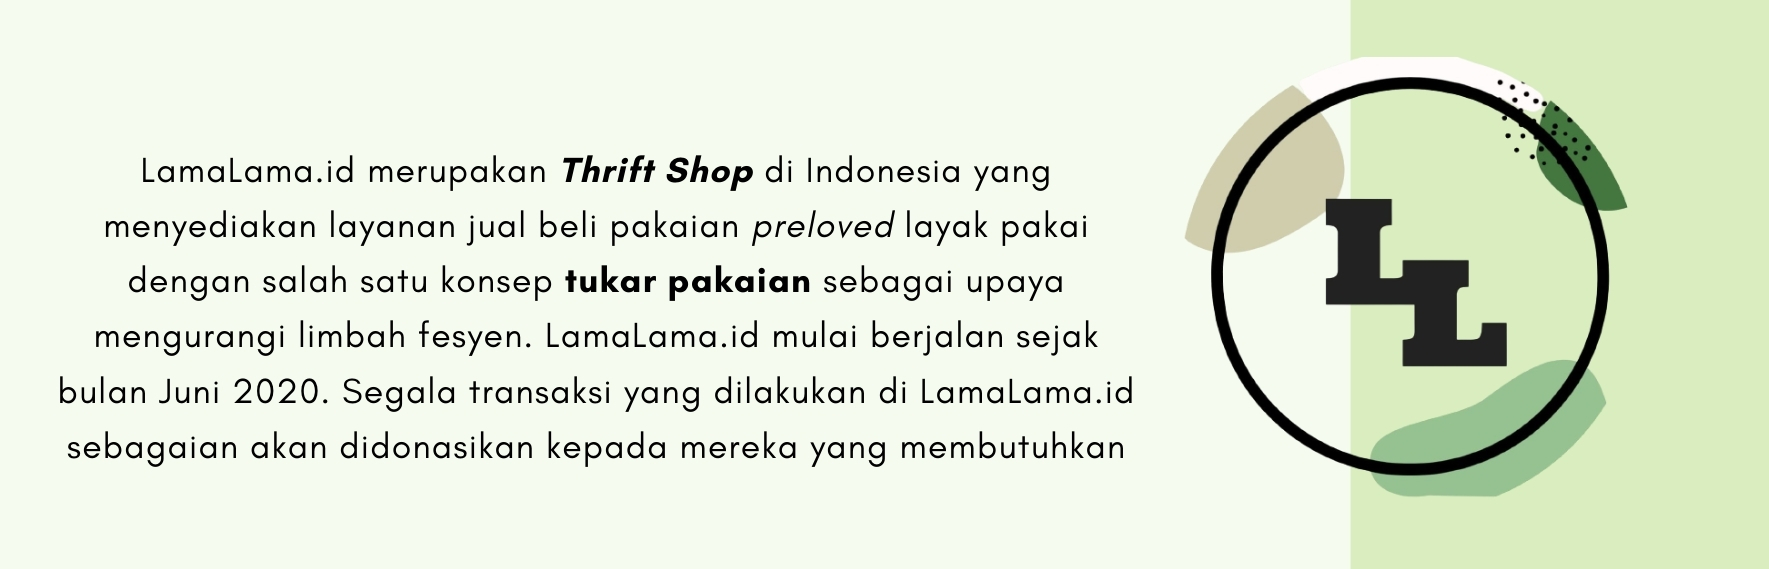
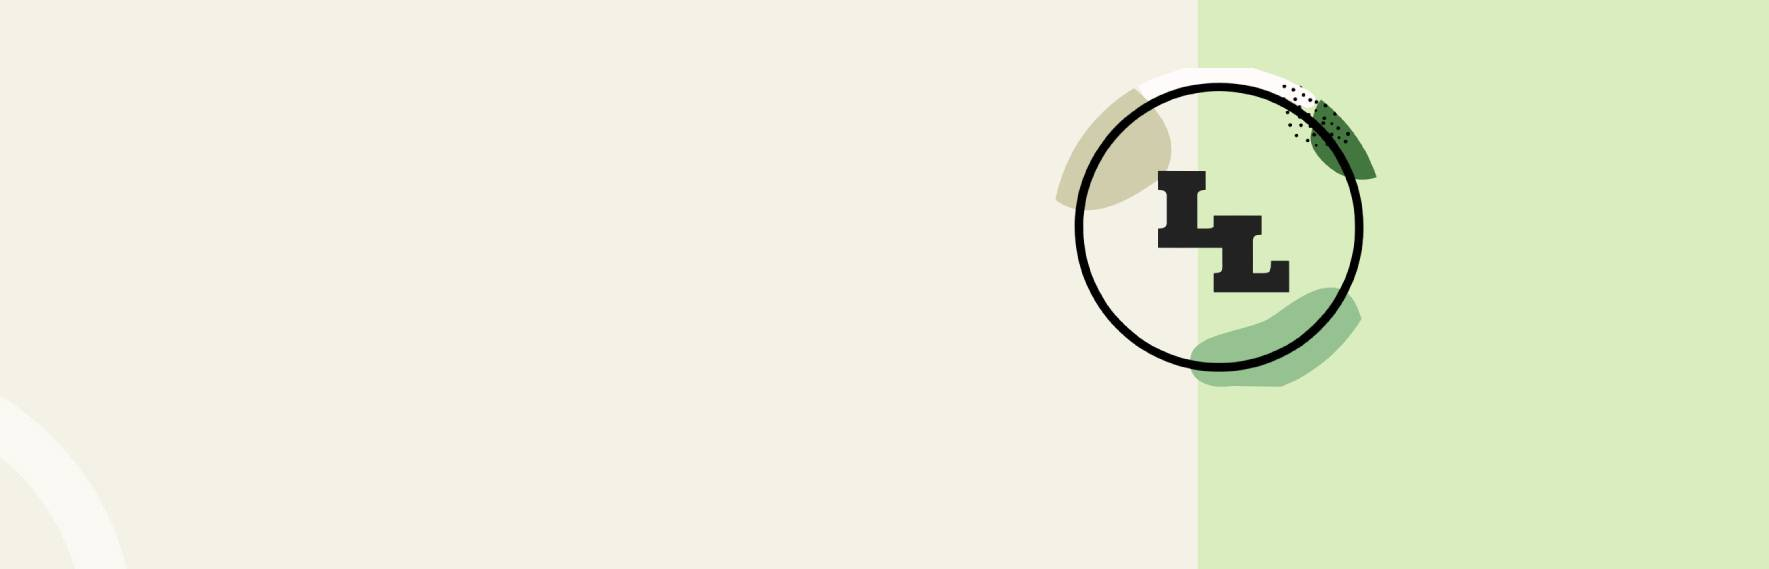
config static image

Changed region(s): [[0.0311, 0.0, 0.9327, 1.0]]

diff --git a/resources/views/home.blade.php b/resources/views/home.blade.php
@@ -34,7 +34,7 @@ Home
             <div class="col-lg-4">
                 <a href="{{url('/shop/category/'.$category->id)}}">
                     <div class="single-banner">
-                        <img src="{{asset('img/banner-' . $loop->iteration . '.jpg')}}" alt="">
+                        <img src="{{asset('img/static-banner/categoryBanner' . $loop->iteration . '.jpg')}}" alt="">
                         <div class="inner-text">
                             <h4>{{$category->category_name}}</h4>
                         </div>
@@ -47,12 +47,12 @@ Home
 </div>
 <!-- Banner Section End -->
 
-<!-- Women Banner Section Begin -->
+<!-- New Banner Section Begin -->
 <section class="women-banner spad">
     <div class="container-fluid">
         <div class="row">
             <div class="col-lg-3">
-                <div class="product-large set-bg" data-setbg="{{asset('img/products/women-large.jpg')}}">
+                <div class="product-large set-bg" data-setbg="{{asset('img/static-banner/new.jpg')}}">
                     <h2>New</h2>
                 </div>
             </div>
@@ -86,10 +86,10 @@ Home
         </div>
     </div>
 </section>
-<!-- Women Banner Section End -->
+<!-- New Banner Section End -->
 
 <!-- Deal Of The Week Section Begin-->
-<section class="deal-of-week set-bg spad" data-setbg="{{asset('img/time-bg.jpg')}}">
+<section class="deal-of-week set-bg spad" data-setbg="{{asset('img/static-banner/staticBanner.jpg')}}">
     <div class="container">
         <div class="col-lg-6 text-center">
             <div class="section-title">
@@ -102,7 +102,7 @@ Home
 </section>
 <!-- Deal Of The Week Section End -->
 
-<!-- Man Banner Section Begin -->
+<!-- Affordable Banner Section Begin -->
 <section class="man-banner spad">
     <div class="container-fluid">
         <div class="row">
@@ -134,14 +134,14 @@ Home
                 </div>
             </div>
             <div class="col-lg-3 offset-lg-1">
-                <div class="product-large set-bg m-large" data-setbg="{{asset('img/products/man-large.jpg')}}">
+                <div class="product-large set-bg m-large" data-setbg="{{asset('img/static-banner/affordable.jpg')}}">
                     <h2>Afordable</h2>
                 </div>
             </div>
         </div>
     </div>
 </section>
-<!-- Man Banner Section End -->
+<!-- Affordable Banner Section End -->
 
 <!-- <section class="latest-blog spad" style="padding-top: 0;">
     <div class="container-fluid" style="padding: 0 5%">
